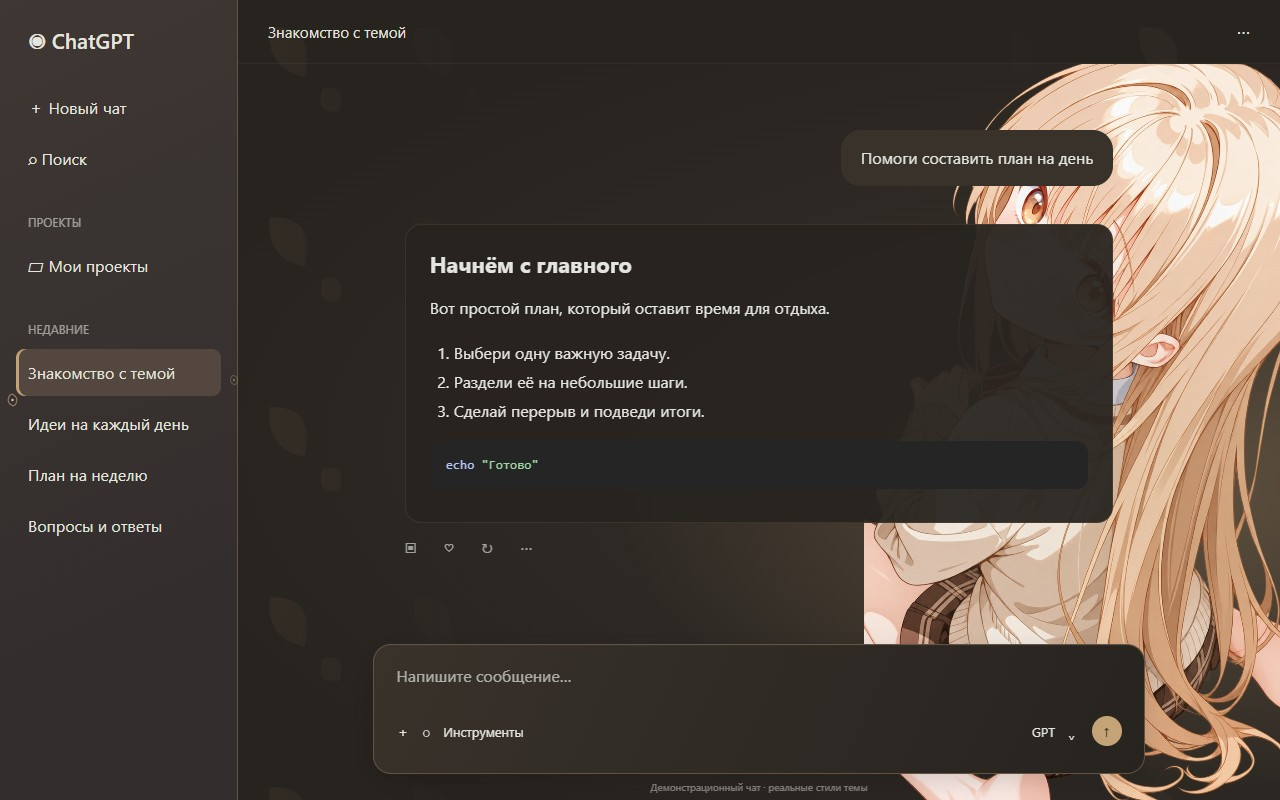
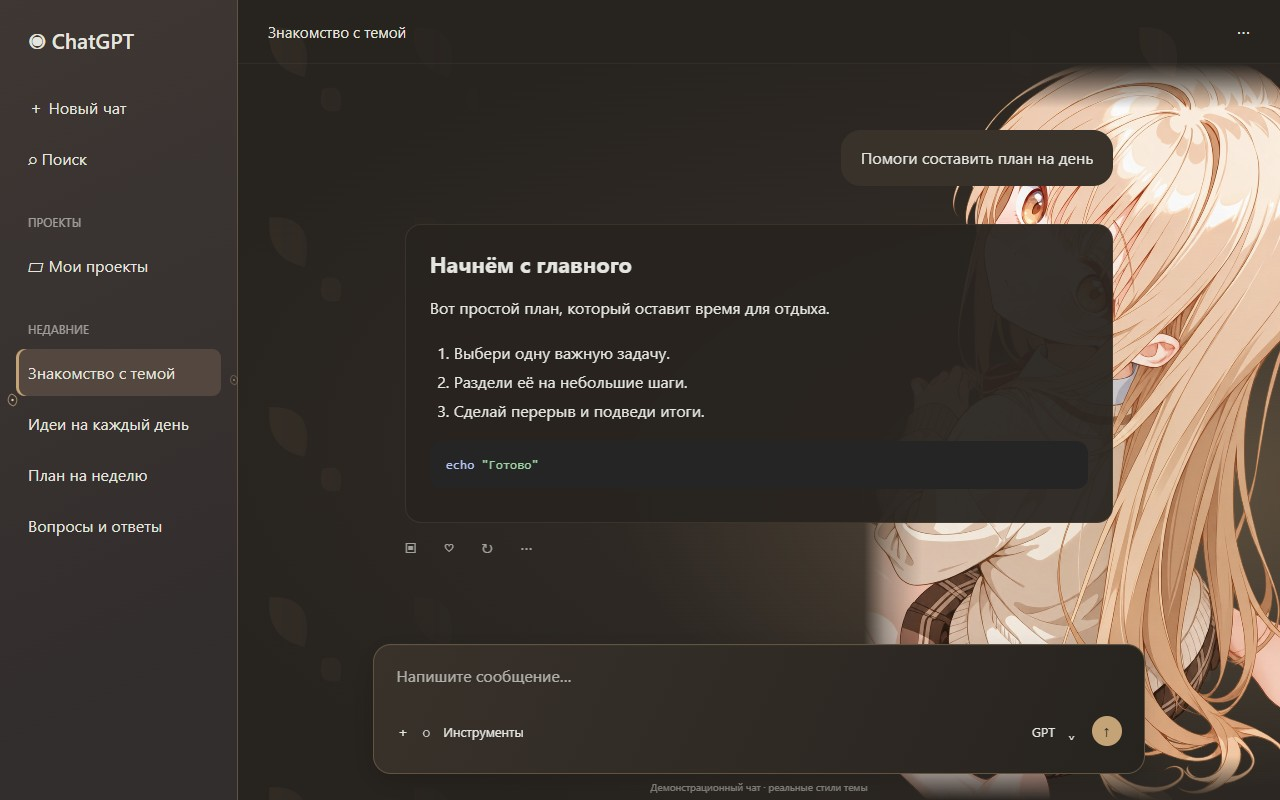
Blend background seams in Tidal Halo and Mayuri themes

Changed region(s): [[0.7812, 0.0625, 1.0, 0.1562], [0.6875, 0.9375, 0.9688, 1.0], [0.6562, 0.6562, 0.7188, 0.8125]]

diff --git a/themes/tidal-halo-duo/theme.css b/themes/tidal-halo-duo/theme.css
@@ -244,3 +244,7 @@ html.codex-theme-studio .main-surface:not(.main-surface .main-surface)::after {
  mask-image:none !important;
  -webkit-mask-image:none !important;
 }
+
+/* Blend only outer seams; keep the portrait center fully opaque. */
+html.codex-theme-studio body .main-surface:not(.main-surface .main-surface)::before {opacity:1 !important;mask-image:linear-gradient(90deg,transparent 0%,#0003 5%,#0009 13%,#000e 23%,#000 32%) !important;-webkit-mask-image:linear-gradient(90deg,transparent 0%,#0003 5%,#0009 13%,#000e 23%,#000 32%) !important;mask-composite:intersect;}
+html.codex-theme-studio body .main-surface:not(.main-surface .main-surface)::after {opacity:1 !important;mask-image:linear-gradient(90deg,#000 0%,#000 68%,#000e 77%,#0009 87%,#0003 95%,transparent 100%) !important;-webkit-mask-image:linear-gradient(90deg,#000 0%,#000 68%,#000e 77%,#0009 87%,#0003 95%,transparent 100%) !important;mask-composite:intersect;}

diff --git a/themes/mayuri-amber/theme.css b/themes/mayuri-amber/theme.css
@@ -173,3 +173,6 @@ html.codex-theme-studio .main-surface:not(.main-surface .main-surface)::after {
  mask-image:none !important;
  -webkit-mask-image:none !important;
 }
+
+/* Blend only outer seams; keep the portrait center fully opaque. */
+html.codex-theme-studio body .main-surface:not(.main-surface .main-surface)::before {opacity:1 !important;mask-image:linear-gradient(90deg,transparent 0%,#0008 5%,#000 14%),linear-gradient(180deg,transparent 0%,#000 6%,#000 94%,transparent 100%) !important;-webkit-mask-image:linear-gradient(90deg,transparent 0%,#0008 5%,#000 14%),linear-gradient(180deg,transparent 0%,#000 6%,#000 94%,transparent 100%) !important;mask-composite:intersect;}

diff --git a/themes/tidal-halo/theme.css b/themes/tidal-halo/theme.css
@@ -226,3 +226,6 @@ html.codex-theme-studio .main-surface:not(.main-surface .main-surface)::after {
  mask-image:none !important;
  -webkit-mask-image:none !important;
 }
+
+/* Blend only outer seams; keep the portrait center fully opaque. */
+html.codex-theme-studio body .main-surface:not(.main-surface .main-surface)::before {opacity:1 !important;mask-image:linear-gradient(90deg,transparent 0%,#0003 5%,#0009 13%,#000e 23%,#000 32%) !important;-webkit-mask-image:linear-gradient(90deg,transparent 0%,#0003 5%,#0009 13%,#000e 23%,#000 32%) !important;mask-composite:intersect;}
